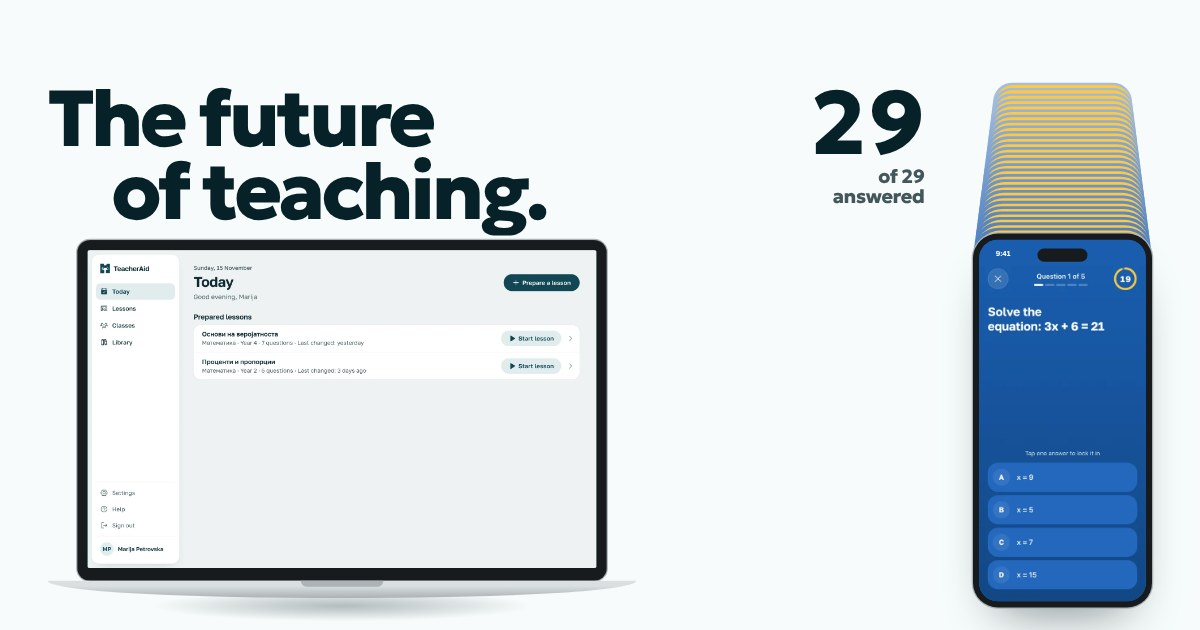
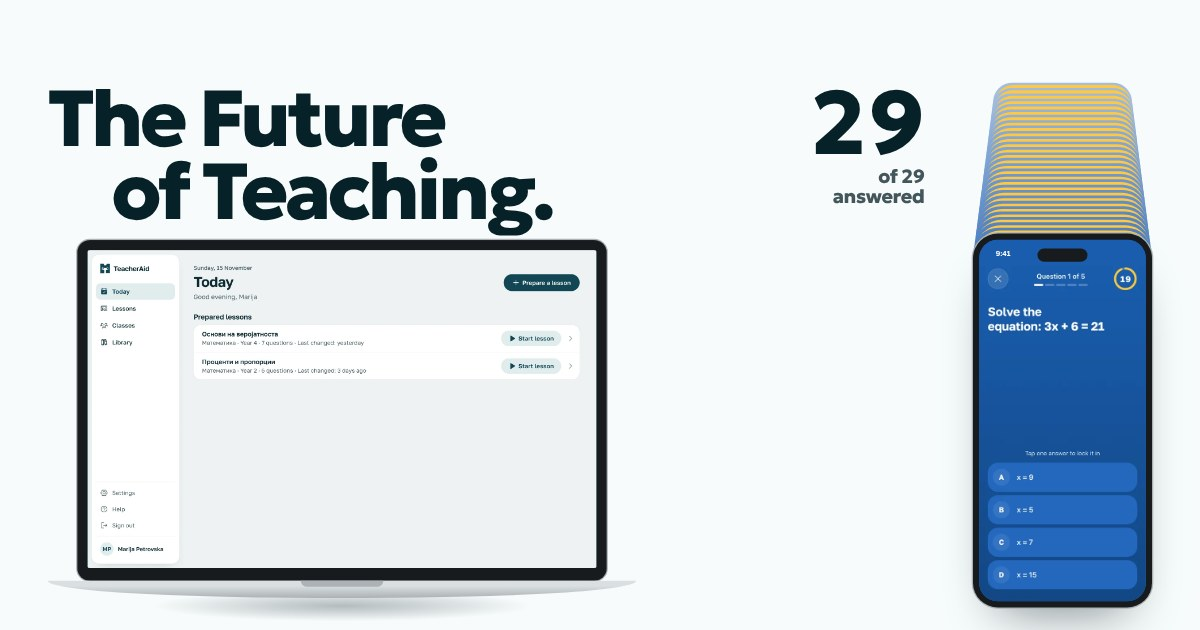
Website: the slogan is written with a capital Н
The founders want „Иднината на Наставата" with a capital Н, and "The Future of Teaching" in
title case on the English pages. The headline, the share pictures and their alt text, the
manifest and the structured data follow.

Claude-Session: https://claude.ai/code/session_01PojaZ47R6a2QCdUGpJhCQD

Changed region(s): [[0.1542, 0.1206, 0.4625, 0.3921]]

diff --git a/components/site-v2/Document.tsx b/components/site-v2/Document.tsx
@@ -70,8 +70,8 @@ export function SiteV2Document({ lang, children }: { lang: "mk" | "en"; children
   home page of their language (app/(mk)/opengraph-image.jpg, app/(en)/en/opengraph-image.jpg).
 */
 const shareImage: Record<ArticleDict["lang"], { url: string; alt: string }> = {
-  mk: { url: "/og/teacheraid-mk.jpg", alt: "TeacherAid: „Иднината на наставата.“ над лаптоп со апликацијата за наставникот и телефон на ученик." },
-  en: { url: "/og/teacheraid-en.jpg", alt: "TeacherAid: \"The future of teaching.\" over a laptop with the teacher app and a student's phone." },
+  mk: { url: "/og/teacheraid-mk.jpg", alt: "TeacherAid: „Иднината на Наставата.“ над лаптоп со апликацијата за наставникот и телефон на ученик." },
+  en: { url: "/og/teacheraid-en.jpg", alt: "TeacherAid: \"The Future of Teaching.\" over a laptop with the teacher app and a student's phone." },
 };
 
 /** A reading page's metadata: its own title, description, canonical and language pair. */

diff --git a/content/site-v2/mk.ts b/content/site-v2/mk.ts
@@ -25,7 +25,7 @@ export const mk: SiteV2Dict = {
   },
   hero: {
     kicker: "За наставници и директори",
-    title: ["Иднината", "на наставата."],
+    title: ["Иднината", "на Наставата."],
     deck: "TeacherAid од вашата лекција прави прашања за часот. Ги испраќате од лаптопот, учениците одговараат на своите телефони, а вие веднаш гледате кој разбрал.",
     deckShort: "Прашања од вашата лекција. Одговори од секој телефон.",
     teacher: "Јас сум наставник",

diff --git a/lib/site-v2/schema.ts b/lib/site-v2/schema.ts
@@ -64,7 +64,7 @@ export function pageSchema(input: PageSchemaInput) {
       address: { "@type": "PostalAddress", addressLocality: "Bitola", addressCountry: "MK" },
       // The brand's slogan, chosen by the founders on 2026-11-25. Macedonian is the brand's
       // language; the English pages carry its translation.
-      slogan: lang === "mk" ? "Иднината на наставата" : "The future of teaching",
+      slogan: lang === "mk" ? "Иднината на Наставата" : "The Future of Teaching",
       areaServed: { "@type": "Country", name: "North Macedonia" },
       knowsLanguage: ["mk", "en"],
     },

diff --git a/content/site-v2/en.ts b/content/site-v2/en.ts
@@ -25,7 +25,7 @@ export const en: SiteV2Dict = {
   },
   hero: {
     kicker: "For teachers and school directors",
-    title: ["The future", "of teaching."],
+    title: ["The Future", "of Teaching."],
     deck: "TeacherAid turns your lesson into questions for class. You send them from your laptop, students answer on their phones, and you see at once who understood.",
     deckShort: "Questions from your lesson. Answers from every phone.",
     teacher: "I'm a teacher",

diff --git a/tests/unit/site-seo.test.ts b/tests/unit/site-seo.test.ts
@@ -58,7 +58,7 @@ describe("structured data", () => {
   });
 
   it("gives the organisation its slogan in the page's language", () => {
-    expect(schema["@graph"][0].slogan).toBe("Иднината на наставата");
+    expect(schema["@graph"][0].slogan).toBe("Иднината на Наставата");
   });
 
   it("uses no type Google has retired", () => {

diff --git a/app/manifest.ts b/app/manifest.ts
@@ -4,7 +4,7 @@ export default function manifest(): MetadataRoute.Manifest {
   return {
     name: "TeacherAid",
     short_name: "TeacherAid",
-    description: "Иднината на наставата.",
+    description: "Иднината на Наставата.",
     lang: "mk",
     start_url: "/",
     scope: "/",

diff --git a/docs/site-v2/DESIGN.md b/docs/site-v2/DESIGN.md
@@ -155,7 +155,7 @@ the hero). Refresh them whenever an app changes:
 
 | Act | Scene | Theme |
 |---|---|---|
-| Hook | Hero: the slogan, "Иднината на наставата." (2026-11-25; before, "Целиот клас одговара."). Pinned for two screens: the text clears, the headline becomes the caption, the laptop settles on the desk, the student's phone moves to the front of a stack of the class's 28 other phones beside it, and their edges light yellow front to back as the count reaches 29 | Paper |
+| Hook | Hero: the slogan, "Иднината на Наставата." (2026-11-25; before, "Целиот клас одговара."). Pinned for two screens: the text clears, the headline becomes the caption, the laptop settles on the desk, the student's phone moves to the front of a stack of the class's 28 other phones beside it, and their edges light yellow front to back as the count reaches 29 | Paper |
 | Build | Teacher chapter opener: ready before the bell | Morph to teal |
 | Build | Prepare: plays once on arrival. The file and the line of emphasis land, the AI writes, the questions appear, one tap on Harder rewrites them | Teal |
 | Climax | In class: pinned for three screens. Students join (0 to 27), Send is pressed, the question flies from the laptop to the board, answers and the timer count, the bars fill, the right answer is revealed. One caption per beat | Teal |
